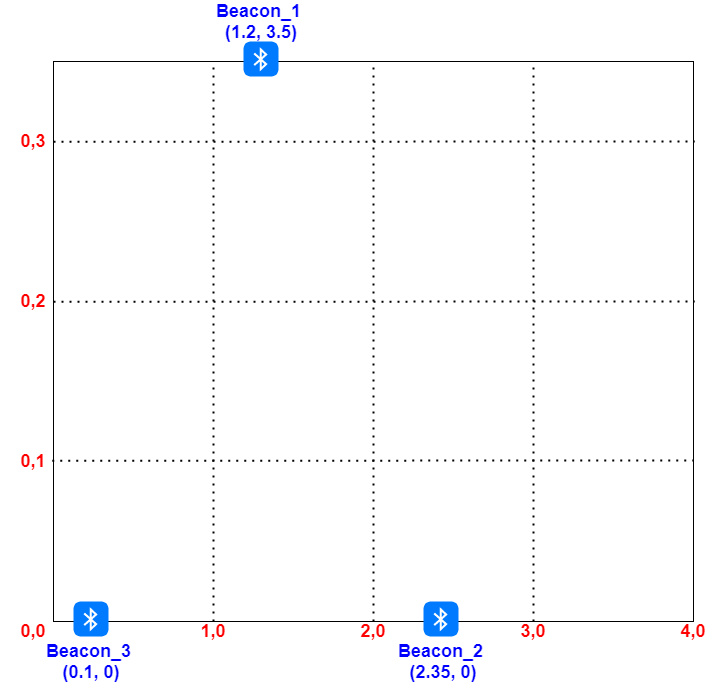
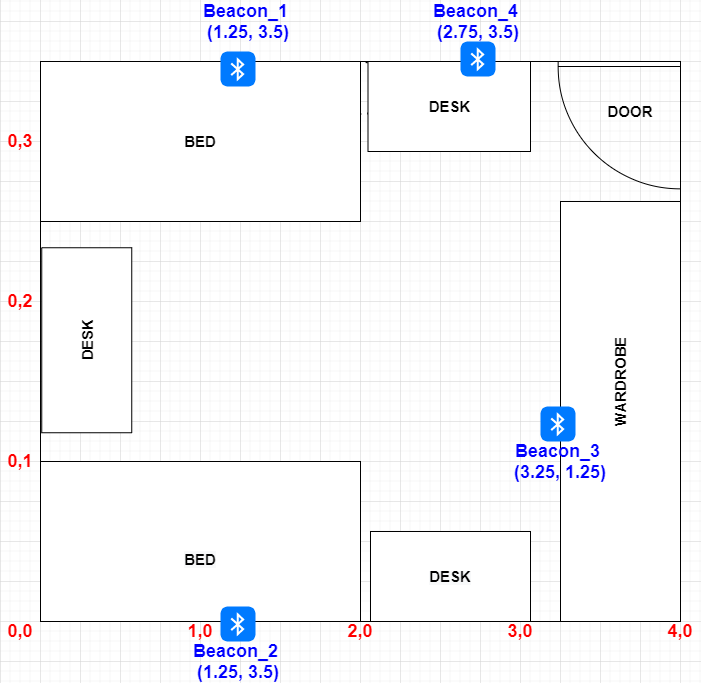
CDR Day improvements & fixes

diff --git a/Server/server.py b/Server/server.py
@@ -5,11 +5,12 @@ import beacon
 from rssi_locator import locator
 from cleaner import clear
 import json
+import time
 
-beacon_1 = beacon.beacon("4d6fc88bbe756698da486866a36ec78e" , 1.2, 3.5)
-beacon_2 = beacon.beacon("bc5f638e79976aa42b455a6d5a70128c", 2.35, 0)
-beacon_3 = beacon.beacon("213a8fd53d3fad98b245a8d2b2242a48", 0.1, 0)
-beacon_4 = beacon.beacon("6f506cd2e98121a7a5493da8fcca68d6", 4, 2)
+beacon_1 = beacon.beacon("4d6fc88bbe756698da486866a36ec78e" , 1.25, 3.5)
+beacon_2 = beacon.beacon("bc5f638e79976aa42b455a6d5a70128c", 1.25, 0)
+beacon_3 = beacon.beacon("213a8fd53d3fad98b245a8d2b2242a48", 3.25, 1.25)
+beacon_4 = beacon.beacon("6f506cd2e98121a7a5493da8fcca68d6", 2.75, 3.5)
 
 # Create a TCP/IP socket
 sock = socket.socket(socket.AF_INET, socket.SOCK_STREAM)
@@ -21,6 +22,7 @@ sock.bind(server_address)
 
 # Listen for incoming connections
 sock.listen(1)
+connection_number = 1
 
 while True:
     message = b""
@@ -30,25 +32,29 @@ while True:
 
     try:
         print('connection from', client_address, file=sys.stderr)
+        time_start = round(time.time() * 1000)
 
         # Receive the data in small chunks and retransmit it
         while True:
             chunk = connection.recv(1024)
             message = message + chunk
-            if chunk:
-                print('sending data back to the client', file=sys.stderr)
-                #connection.sendall(data)
-            else:
-                print('no more data from', client_address, file=sys.stderr)
+            if(not chunk):
                 break
+            # if chunk:
+            #     #print('sending data back to the client', file=sys.stderr)
+            #     #connection.sendall(data)
+            # else:
+            #     #print('no more data from', client_address, file=sys.stderr)
+            #     break
             
     finally:
         # Clean up the connection
         
         message = json.loads(message)
-        print(message)
+        #print(message)
         connection.close()
-            
+
+    time_start_proc = round(time.time() * 1000)        
     for beacon in message:
         #print(beacon["uuid"], beacon["rssi"], beacon["distance"])
         
@@ -75,11 +81,15 @@ while True:
     best3.append(beacon_4)
     best3.sort(key=lambda x: x.distance, reverse=True)
 
-    x,y = locator(best3[0].distance, best3[1].distance, best3[2].distance, best3[0].pos_x, best3[1].pos_x, best3[2].pos_x, best3[0].pos_y, best3[1].pos_y, best3[2].pos_y)    
+    x,y = locator(best3[3].distance, best3[1].distance, best3[2].distance, best3[3].pos_x, best3[1].pos_x, best3[2].pos_x, best3[3].pos_y, best3[1].pos_y, best3[2].pos_y)    
     print((x,y))
 
     data = {"x": x, "y": y, "beacon_1": beacon_1.distance, "beacon_2": beacon_2.distance, "beacon_3": beacon_3.distance , "beacon_4": beacon_4.distance}
 
+    time_end = round(time.time() * 1000)
+    print("The total time required for a server response in connection " + str(connection_number) + " is: " + str(time_end - time_start) + "ms")
+    print("The processing time for a single device in connection " + str(connection_number) + " is: " + str(time_end - time_start_proc) + "ms")
+    connection_number = connection_number + 1
     beacon_1.flush()
     beacon_2.flush()
     beacon_3.flush()

diff --git a/GUI/gui.py b/GUI/gui.py
@@ -32,11 +32,13 @@ def move(event = "none"):
     with open((os.path.dirname(os.getcwd()) + '/Server/data.txt'), 'r') as file:
         data = json.loads(file.read( ))
     angle = random.randint(0,360)
-    x = 53 + data["x"]*161
-    y = 622 -(data["y"])*161
+    x = data["x"]
+    y = data["y"]
+    x_image = 40 + data["x"]*161
+    y_image = 622 -(data["y"])*161
     arrow_length = 100
-    canvas.coords(image, x, y)
-    canvas.coords(arrow_1, x , y , arrow_length*math.cos(angle)+x , arrow_length*math.sin(angle) + y)
+    canvas.coords(image, x_image, y_image)
+    canvas.coords(arrow_1, x_image , y_image , arrow_length*math.cos(angle)+x_image , arrow_length*math.sin(angle) + y_image)
 
     coordinates = "Location (m):    x=" + " {:2.2f}     ".format(x) + "y=" + " {:2.2f} ".format(y)
     coordinates_label.config(text = coordinates)
